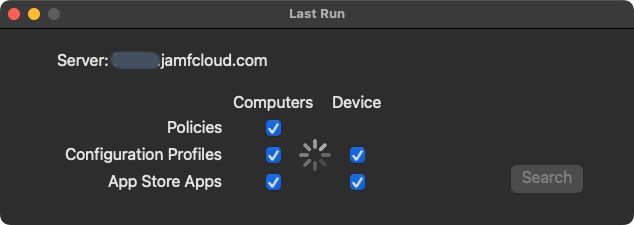
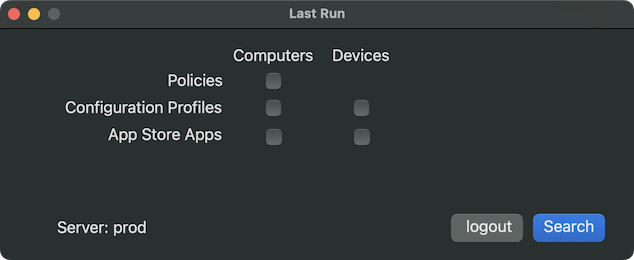
update readme

diff --git a/README.md b/README.md
@@ -19,6 +19,8 @@ Application log can quickly be accessed from the menu bar, View --> Show Logs or
 
 ## History
 
+- 2024-07-02 v0.8.0: UI updates. Better token handling.
+
 - 2024-07-02 v0.7.0: Updated to support bearer token.
 
 - 2023-04-08 v0.6.0: Include objects with no run data.
